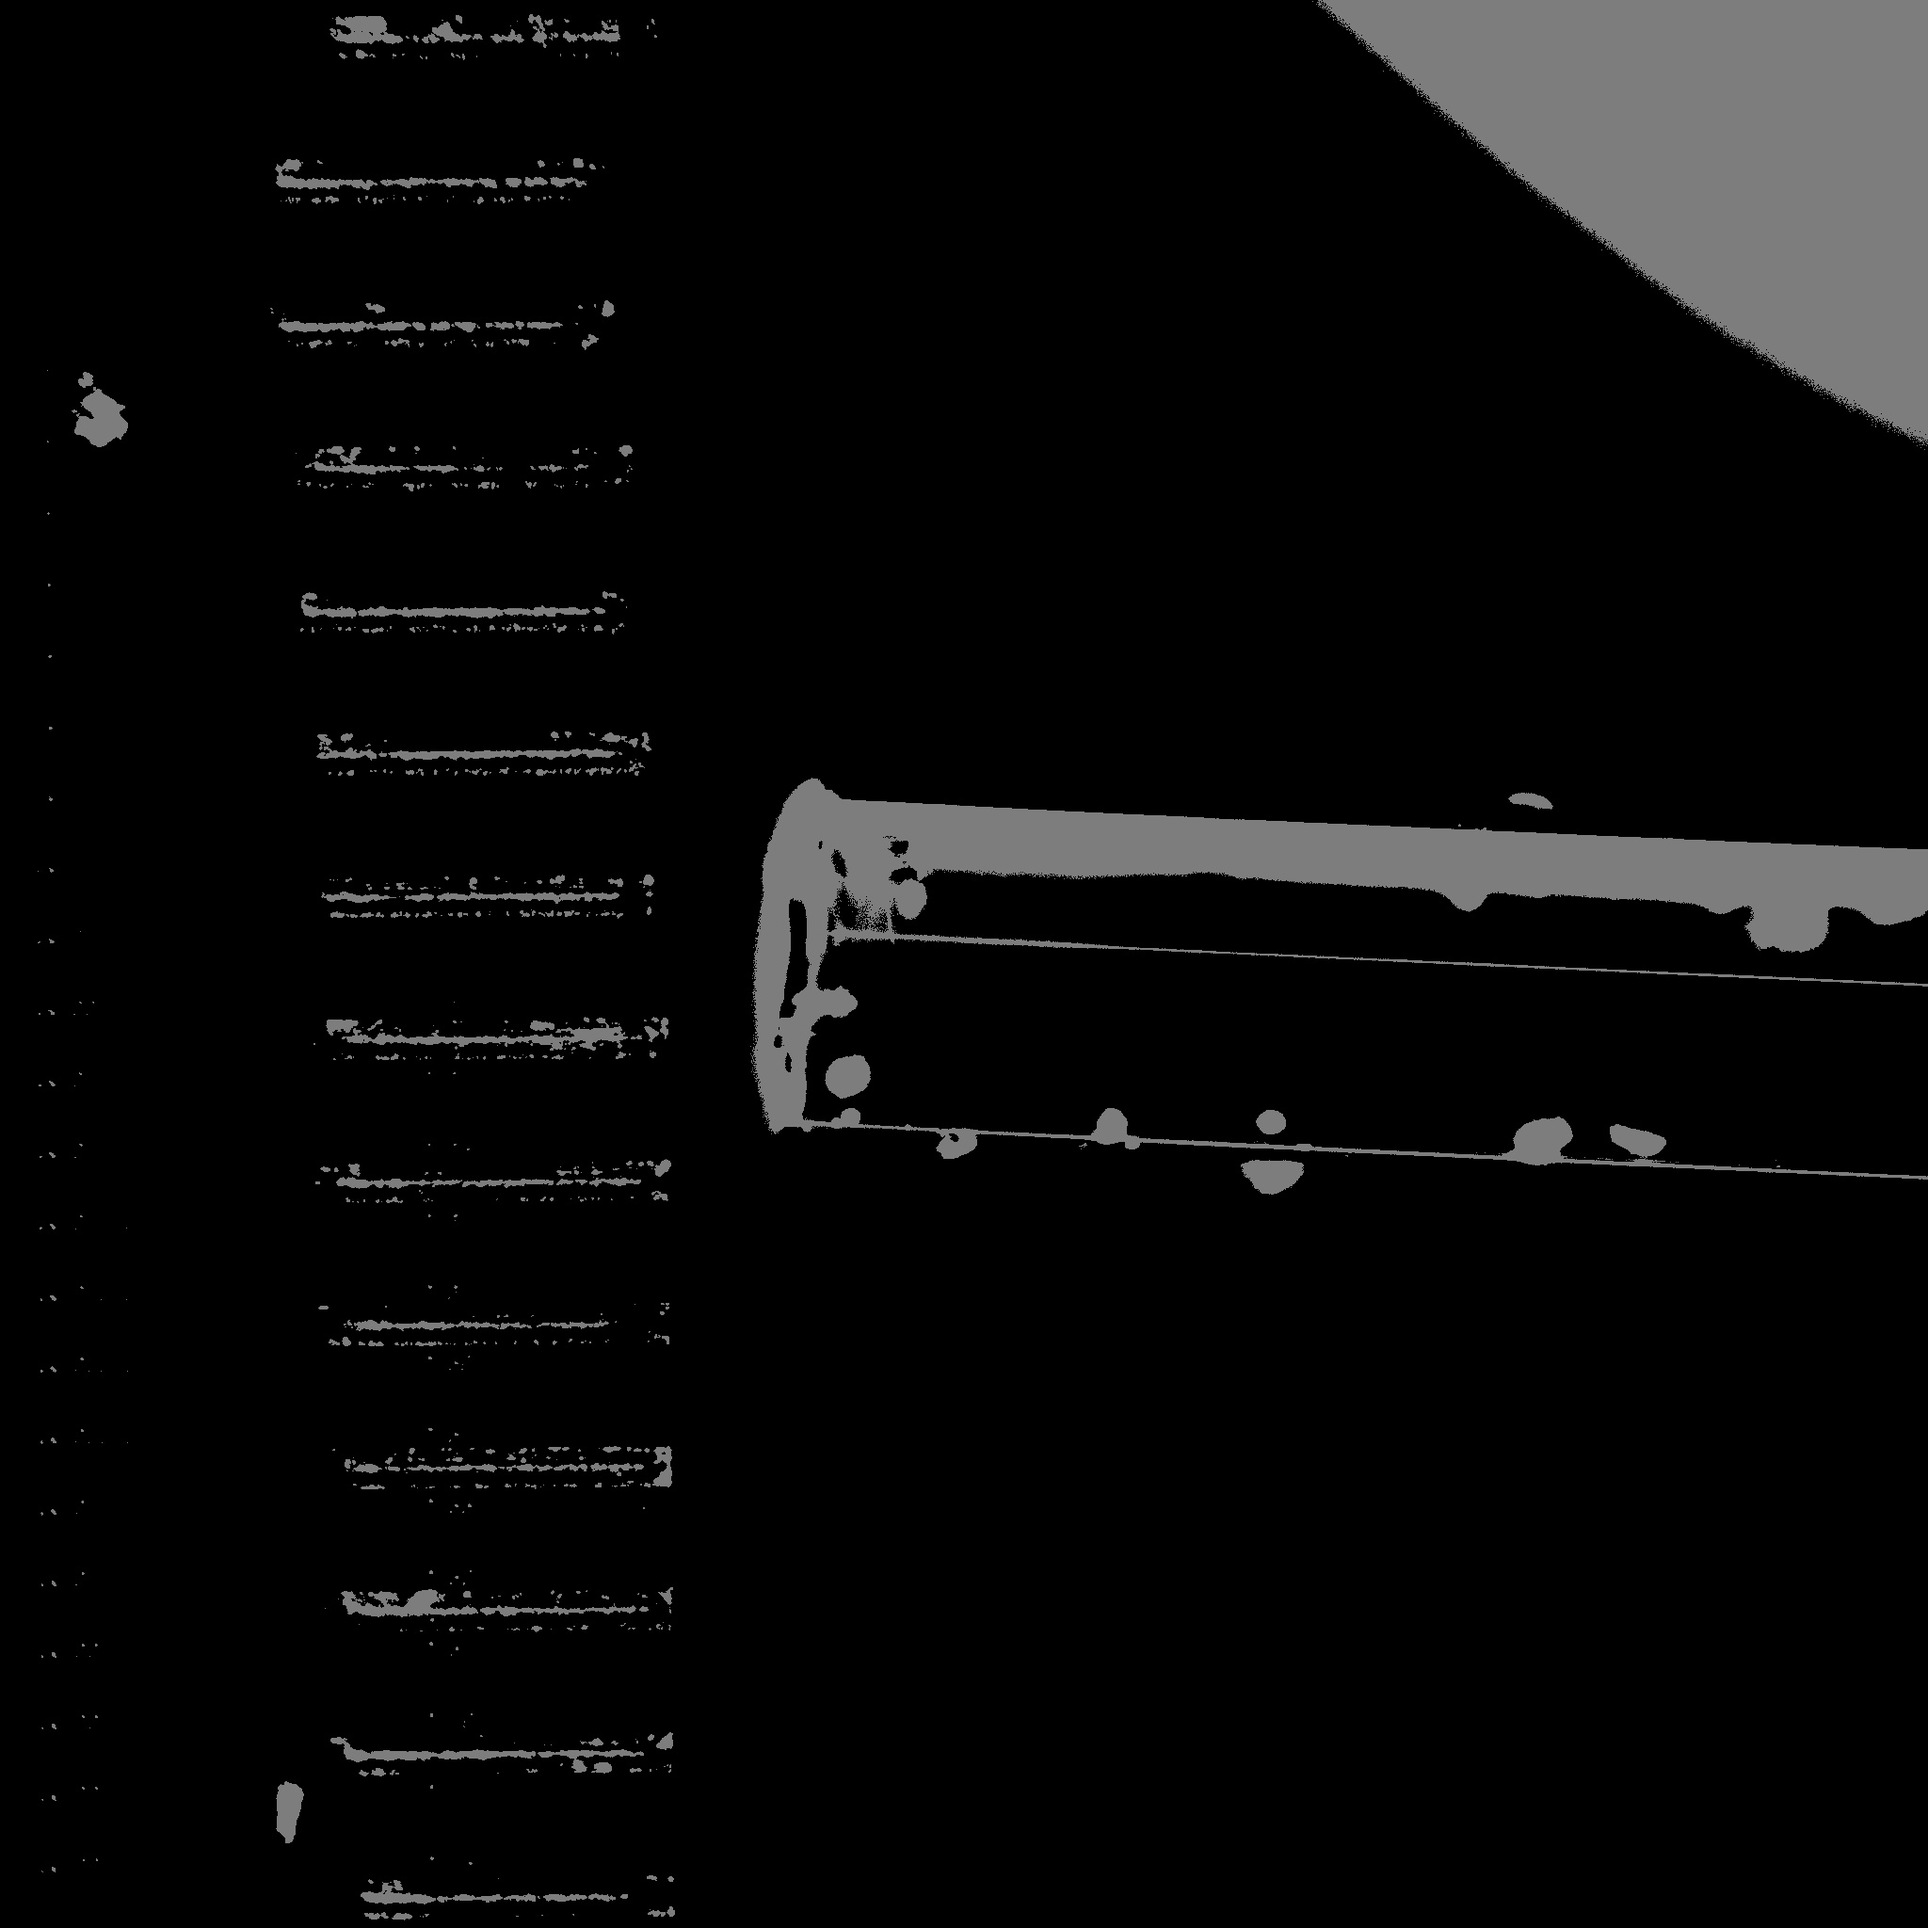
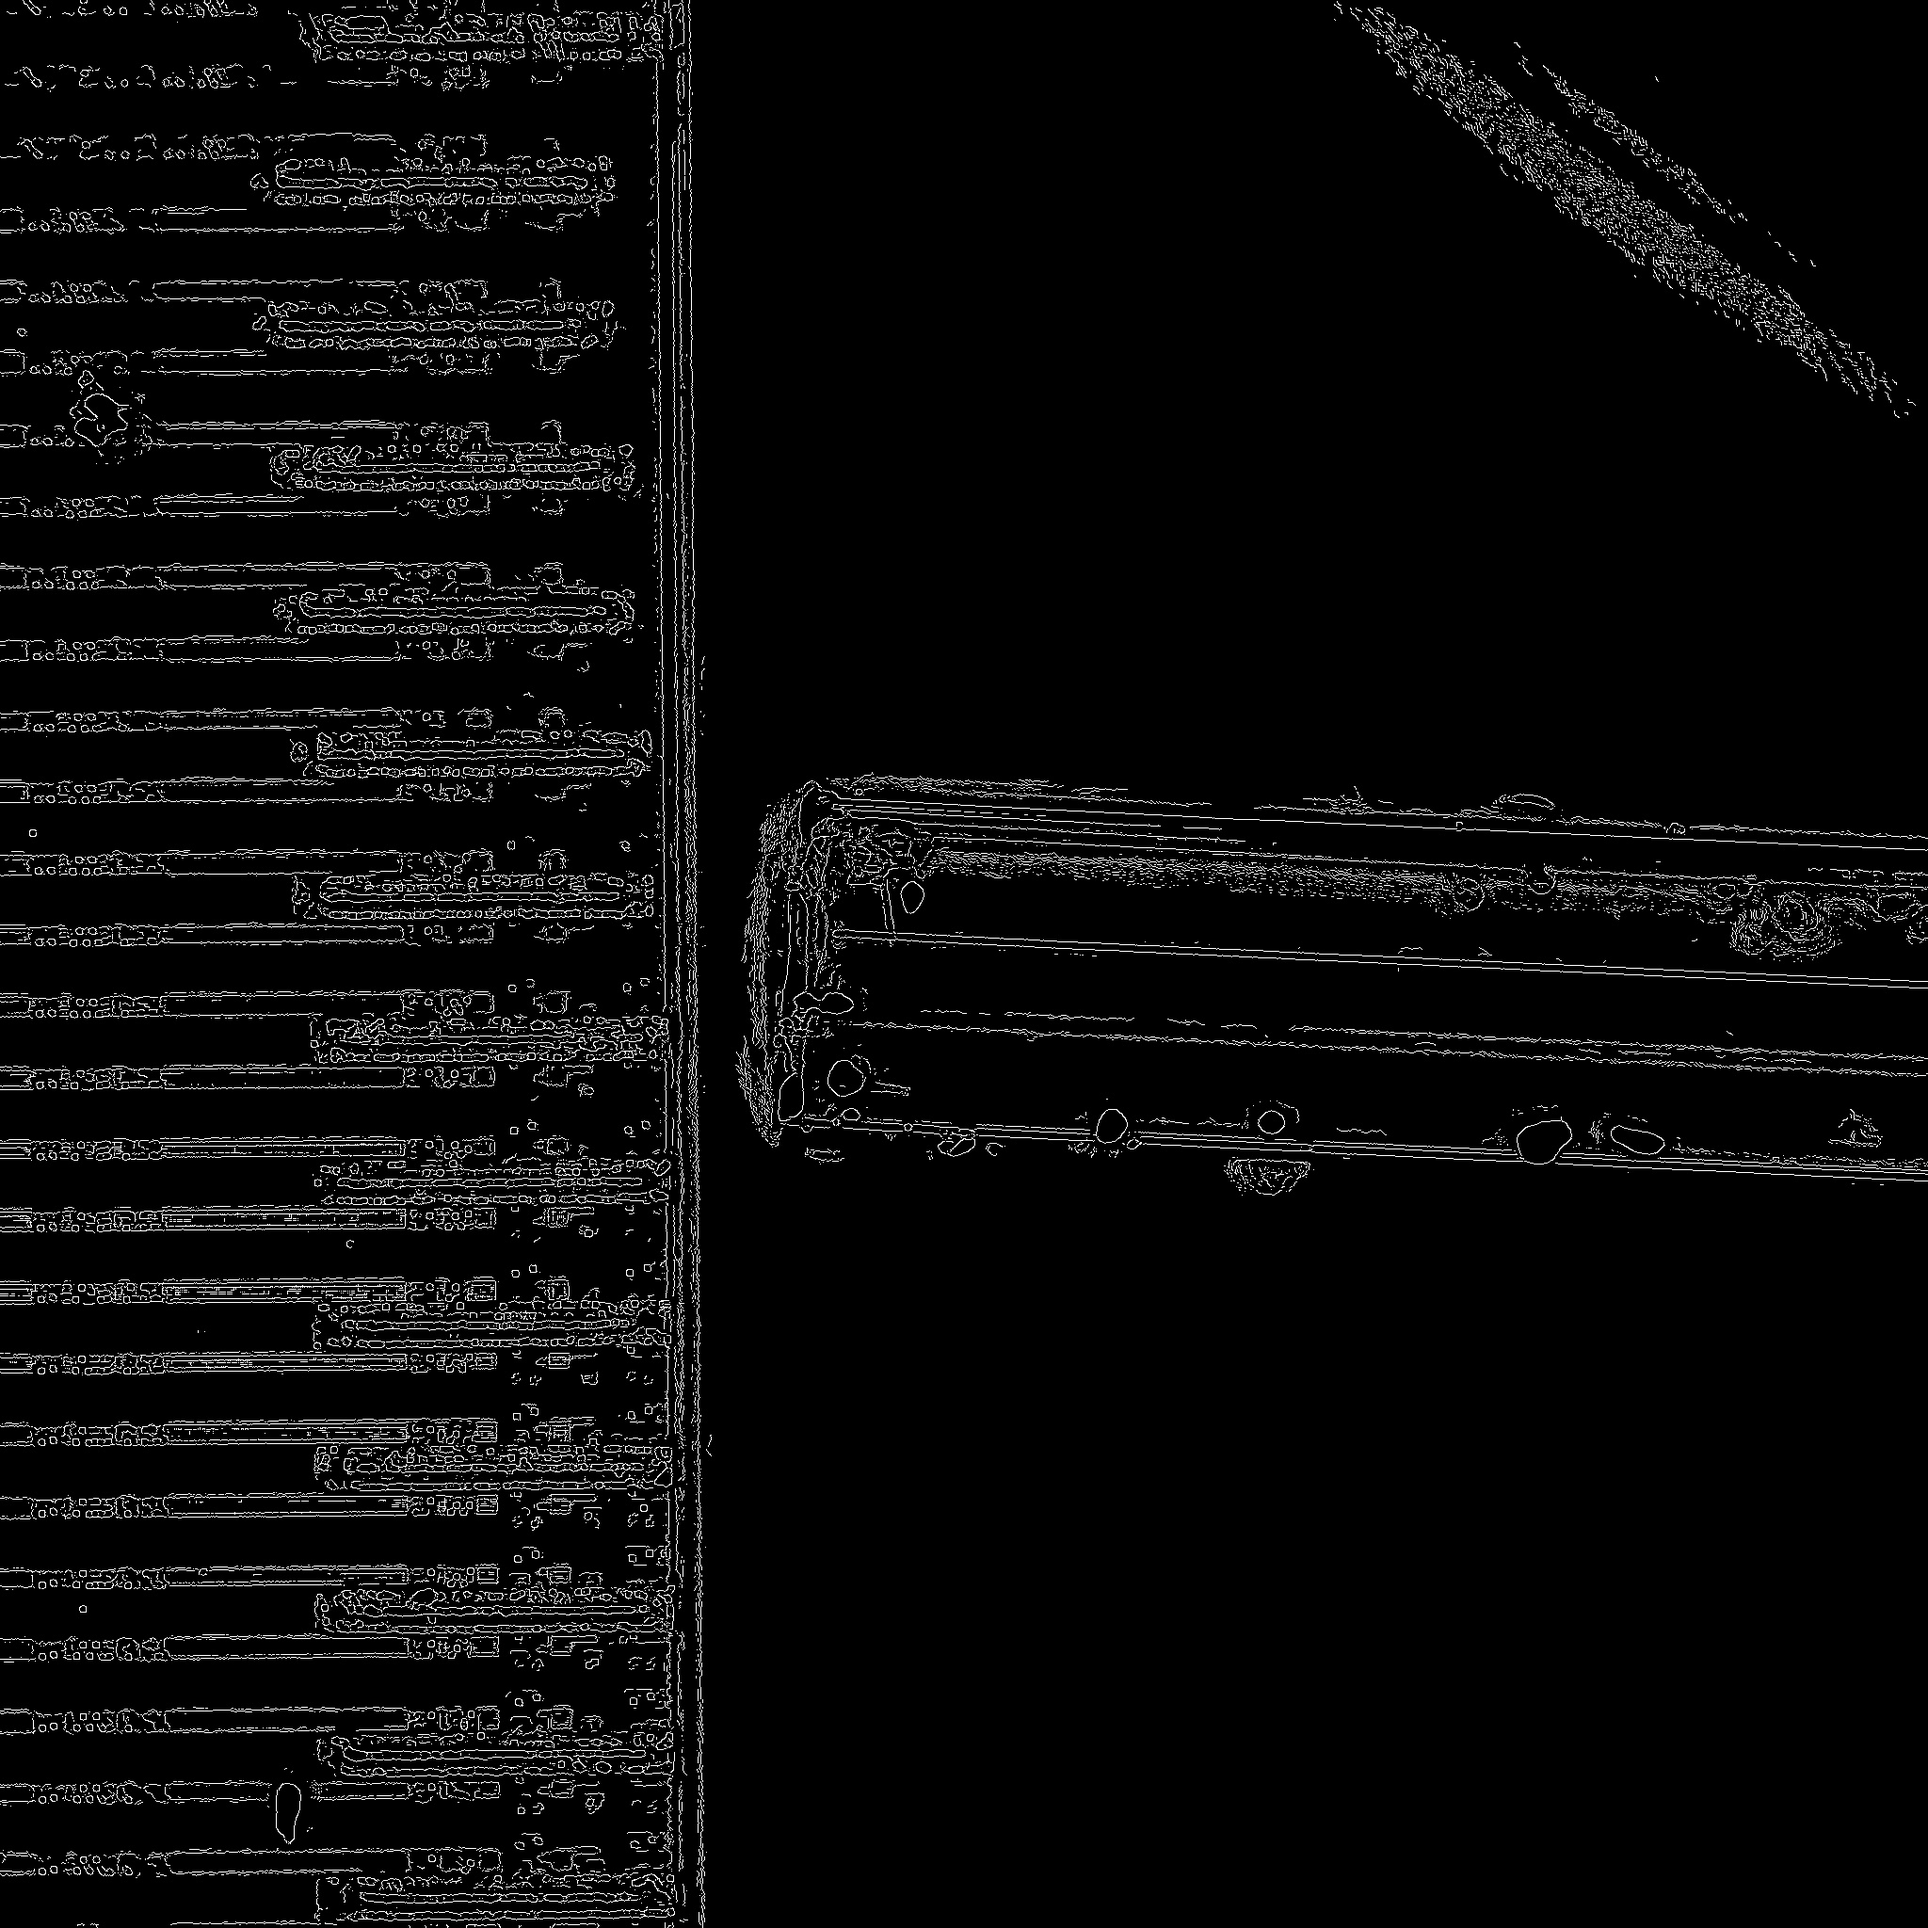
added comments and functions for different img process

diff --git a/Example_mv01.py b/Example_mv01.py
@@ -1,5 +1,4 @@
 import cv2 as cv
-from cv2 import THRESH_BINARY
 import matplotlib.pyplot as plt
 from matplotlib.backends.backend_agg import FigureCanvasAgg
 import numpy as np
@@ -7,45 +6,69 @@ import scipy
 from scipy.signal import find_peaks
 #import utlis
 
+from img_separator import segment_identifier
+
 def get_array(file):
     return cv.imread(file)
 
-def get_processed_array(img):
-    gray = cv.cvtColor(img, cv.COLOR_BGR2GRAY)
-    ret, thresh = cv.threshold(gray,125,125, cv.THRESH_BINARY)
-    return thresh
+def get_canny_edge(img):
+    canny = cv.Canny(img, 10, 15)
+    return canny
+
+def get_adaptive_binary(img):
+    th = cv.adaptiveThreshold(img,255,cv.ADAPTIVE_THRESH_GAUSSIAN_C,cv.THRESH_BINARY_INV,21,2)
+    return th
+
+def get_binary_array(img):
+    segment = segment_identifier(img)
+    ### Average intensity of each segment
+    left_mean = np.mean(img[:,:int(segment[1])])
+    right_mean = np.mean(img[:,int(segment[2]):])
+
+    ret_left, thresh_left = cv.threshold(img, left_mean+10, 255, cv.THRESH_BINARY)
+    ret_right, thresh_right = cv.threshold(img, right_mean+20, 255, cv.THRESH_BINARY_INV)
+    return cv.bitwise_xor(thresh_left, thresh_right, mask = None)
 
 def get_contours_array(img):
     blank = np.zeros(img.shape[:2], dtype = 'uint8')
-    contours, hierarchies = cv.findContours(img, cv.RETR_TREE,cv.CHAIN_APPROX_SIMPLE)
+    contours, hierarchies = cv.findContours(img, cv.RETR_TREE, cv.CHAIN_APPROX_SIMPLE)
 
-    cv.drawContours(blank, contours, -1, (255,255,255), 1)
+    cv.drawContours(blank, contours, -1, (255,255,255), thickness=2)
     return blank
 
-def draw_profiling_line(gray,blank):
-    grayLine = gray.copy()
-    blankLine = blank.copy()
+def get_processed_array(img):
+    gray = cv.cvtColor(img, cv.COLOR_BGR2GRAY)
+    blur = cv.GaussianBlur(gray, (7,7), cv.BORDER_DEFAULT)
+    
+    ### Canny edge
+    # processed = get_canny_edge(blur)
+    
+    ### Adaptive threshold
 
-    cv.line(grayLine, (0, 250), (640, 250), (255, 255, 255), thickness=2, lineType=cv.LINE_AA) # draw a line on a copy of original gray image 
-    cv.line(blankLine, (0, 250), (640, 250), (255, 255, 255), thickness=2, lineType=cv.LINE_AA) # draw a line on a copy of contour image
+    ### Binary + contour
+    processed = get_contours_array(get_binary_array(blur))
+    return processed
 
-    cv.imshow('Mosfet Grayscale with Profiling line',grayLine)
-    cv.imshow('Contours Drawn with Profiling line', blankLine)
-    return grayLine, blankLine
+def draw_profiling_line(img, y):
+    imgLine = img.copy()
+    cv.line(imgLine, (0, y), (img.shape[0], y), (255, 255, 255), thickness=2, lineType=cv.LINE_AA);
+    
+    return imgLine
 
 def get_peaks(contoured, y):
-    peaks, properties = find_peaks(contoured[y,0:640], prominence=3) # find peaks along a horizontal line of 250th pixel
+    ### find peaks along a horizontal line y
+    peaks, properties = find_peaks(contoured[y,:], prominence=5) 
     return peaks
 
-def create_plot(blank, peaks, y):
+def create_plot(contoured, peaks, y):
     fig = plt.Figure(figsize=(6,5), dpi=100)
     ax = fig.add_subplot(111)
-    ax.plot(peaks, blank[y,0:640][peaks], "x", c="red")
-    ax.plot(range(0,640), blank[y,0:640])
+    ax.plot(peaks, contoured[y,:][peaks], "x", c="red")
+    ax.plot(range(0,contoured.shape[0]), contoured[y,:])
     ax.set_title('Profiling of grayscale along the line')
-    ax.set_ylabel('grayscale intensity')
-    ax.set_xlabel('pixel')
-    ax.set_ylim([-5,260])
+    ax.set_ylabel('Grayscale intensity')
+    ax.set_xlabel('Pixel')
+    ax.set_ylim([-5,260]) ### Grayscale from 0 to 255
 
     canvas = FigureCanvasAgg(fig)
     canvas.draw()

diff --git a/GUI.py b/GUI.py
@@ -17,14 +17,14 @@ class MyWindow(QMainWindow):
         self.initUI()
 
     def initUI(self):
-        # Variable for intersection pixel
-        self.line = 250
+        ### Variable for horizontal pixel
+        self.line = 1000
 
-        # FONT VARIABLE
+        ### FONT VARIABLE
         self.fontvar = QFont('Times', 16)
         self.fontvar.setBold(True)
 
-        # TEXTS
+        ### TEXTS
         self.textimage = QLabel(self)
         self.textimage.setText("Camera Image")
         self.textimage.setFont(self.fontvar)
@@ -40,7 +40,7 @@ class MyWindow(QMainWindow):
         self.textimage.setFont(self.fontvar)
         self.textimage.setGeometry(50,920, 1000,100)
         
-        # MOSFET IMAGE
+        ### CHIP_FIBER IMAGE
         pixmapimage = QPixmap('Photos/Photo_Fiber_Obj_10X.tif')
         pixmapimage = pixmapimage.scaled(700, 700, Qt.KeepAspectRatio)
         self.labelimage = QLabel(self)
@@ -49,10 +49,11 @@ class MyWindow(QMainWindow):
 
 
 
-        # PROCESSED IMAGE
+        ### PROCESSED IMAGE
 
         img = get_array('Photos/Photo_Fiber_Obj_10X.tif')
-        processed_array = get_processed_array(img)
+	## Processed array now will include contour (to compatible with adaptive threshold, which not require contour)
+        processed_array = get_processed_array(img) 
         cv2.imwrite('Photos/Processed_10X.jpg', processed_array)
 
         pixmapprocessed = QPixmap('Photos/Processed_10X.jpg')
@@ -61,7 +62,7 @@ class MyWindow(QMainWindow):
         self.labelprocessed.setPixmap(pixmapprocessed)
         self.labelprocessed.setGeometry(800,200,700,700)
 
-        # BUTTONS
+        ### BUTTONS
         self.bup = QPushButton(self)
         self.bup.setText("+")
         self.bup.clicked.connect(self.clickup)
@@ -80,7 +81,7 @@ class MyWindow(QMainWindow):
         self.textline.setGeometry(1600,490,120,40)
 
 
-        # PLOT
+        ### PLOT
         self.plot()
 
         vboxbuttons = QVBoxLayout()
@@ -115,20 +116,20 @@ class MyWindow(QMainWindow):
     def plot(self):
         array = get_array('Photos/Photo_Fiber_Obj_10X.tif')
         processed = get_processed_array(array)
-        blank = get_contours_array(processed)
-        peaks = get_peaks(blank, self.line)
+        # blank = get_contours_array(processed)
+        peaks = get_peaks(processed, self.line)
 
         self.figure = Figure()
         self.canvas = FigureCanvasQTAgg(self.figure)
 
-        # Maybe change to ax as input var for function?
+        ### Maybe change to ax as input var for function?
         ax = self.figure.add_subplot(111)
-        ax.plot(peaks, blank[self.line,0:640][peaks], "x", c="red")
-        ax.plot(range(0,640), blank[self.line,0:640])
+        ax.plot(peaks, processed[self.line,:][peaks], "x", c="red")
+        ax.plot(range(0, processed.shape[1]), processed[self.line,:])
         ax.set_title('Profiling of grayscale along the line')
-        ax.set_ylabel('grayscale intensity')
-        ax.set_xlabel('pixel')
-        ax.set_ylim([-5,260])
+        ax.set_ylabel('Grayscale intensity')
+        ax.set_xlabel('Pixel')
+        ax.set_ylim([-5,260]) ### Grayscale from 0 to 255
         self.canvas.resize(1000,1000)
         # self.canvas.draw()
         # self.canvas.setGeometry(0,0,2000,2000)

diff --git a/img_separator.py b/img_separator.py
@@ -9,25 +9,34 @@ from scipy.signal import find_peaks
 import math
 import pwlf
 
-from Example_mv01 import get_array, get_contours_array
 
+def segment_identifier(img, n_segments=3):
 
-def img_separator (img):
-    gray = cv.cvtColor(img, cv.COLOR_BGR2GRAY)
-    blur = cv.GaussianBlur(gray,(5,5),5)
-
-    x = np.arange(0,blur.shape[1])
-    y = np.array(list(np.mean(blur[:,j]) for j in range(0,blur.shape[1])))
+    x = np.arange(0, img.shape[1])
+    y = np.array(list(np.mean(img[:,j]) for j in range(0,img.shape[1])))
     
     my_pwlf = pwlf.PiecewiseLinFit(x, y)
-    segment = my_pwlf.fit(3)
+    return my_pwlf.fit(n_segments)
+
+def img_separator(img):
+    segment = segment_identifier(img)
     mid = int((segment[1]+segment[2])/2)
-    img_left = gray[:, :mid+50] # margin of 50 pixel
+
+    img_left = gray[:, :mid+50] ### margin of 50 pixel
     img_right = gray[:, mid-50:]
     return img_left, img_right
 
 
 ### From discussion on Friday
+"""
+Henry commented: I have to remove the import function from Example_mv01.py in order to run GUI.py
+Otherwise it will yield an error of circular import. Sorry!
+"""
+
+"""
+
+def get_array(file):
+    return cv.imread(file)
 
 def rescale(img, scale = 0.75):
     width = int (img.shape[1]*scale)
@@ -91,9 +100,13 @@ def get_contours (img):
     cv.drawContours(blank, contours,-1, (255,255,255), thickness=1)
     return blank
 
-### Spliting the image
-array = get_array('Photos/Photo_Fiber_Obj_10X.tif') 
-img_left, img_right = img_separator (array)
+### Segment the image
+
+array = get_array('Photos/Photo_Fiber_Obj_10X.tif')
+gray = cv.cvtColor(array, cv.COLOR_BGR2GRAY)
+blur = cv.GaussianBlur(gray,(5,5),cv.BORDER_DEFAULT)
+
+img_left, img_right = img_separator (blur)
 left_img = rescale(img_left, scale=0.48)
 
 ### Printing alternatives
@@ -107,12 +120,13 @@ cv.imshow('Left',left_img)
 #cv.imshow('Dibujando los contornos',contoursonly)
 th1, th2, th3 = adapt_thresh_bin (left_img)
 thv1, thv2, thv3 = adapt_thresh_inv_bin (left_img)
-thk1, thk2, thk3 = adapt_thresh_trunc (left_img)
-th01, th02, th03 = adapt_thresh_tozero (left_img)
-th0v1, th0v2, th0v3 = adapt_thresh_inv_tozero (left_img)
-cv.imshow('Binary', th01)
-cv.imshow('Adapt Mean', th02)
-cv.imshow('Adapt Gaussian', th03)
-#cv.imshow('Adapt Gaussian Inv', thv3)
+# thk1, thk2, thk3 = adapt_thresh_trunc (left_img)
+# th01, th02, th03 = adapt_thresh_tozero (left_img)
+# th0v1, th0v2, th0v3 = adapt_thresh_inv_tozero (left_img)
+cv.imshow('Binary', th1)
+cv.imshow('Adapt Mean', th2)
+cv.imshow('Adapt Gaussian', th3)
+# cv.imshow('Adapt Gaussian Inv', thv3)
 
 cv.waitKey(0)
+"""
